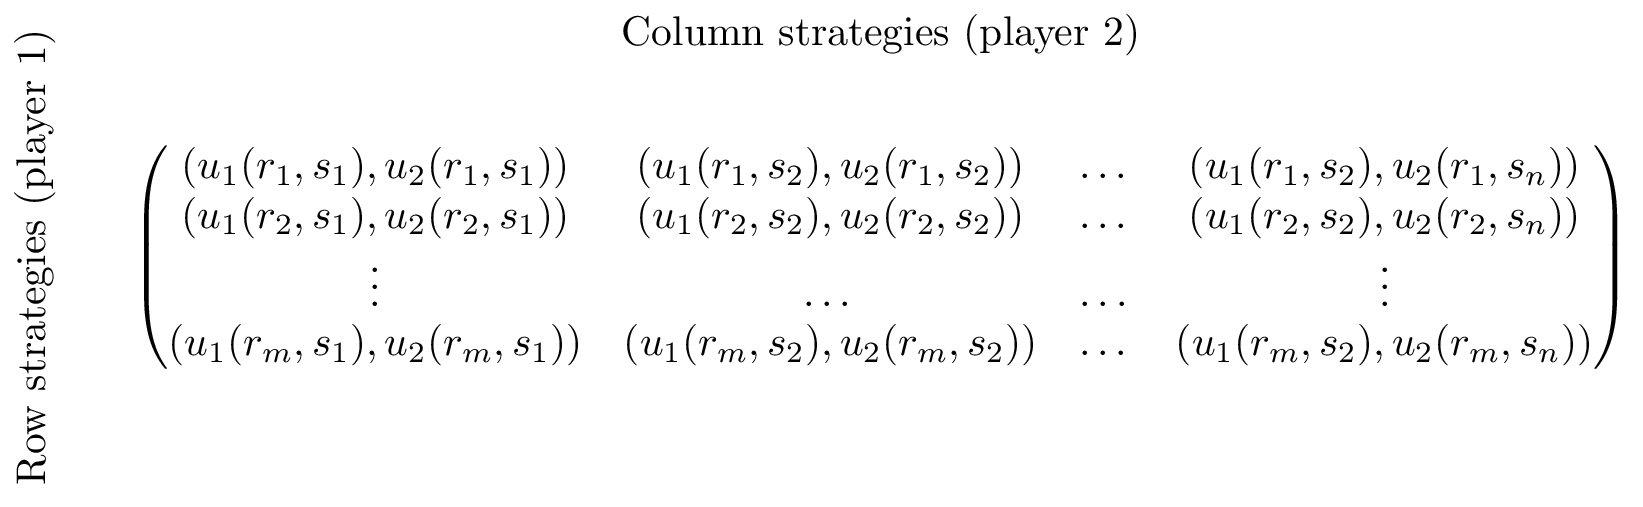
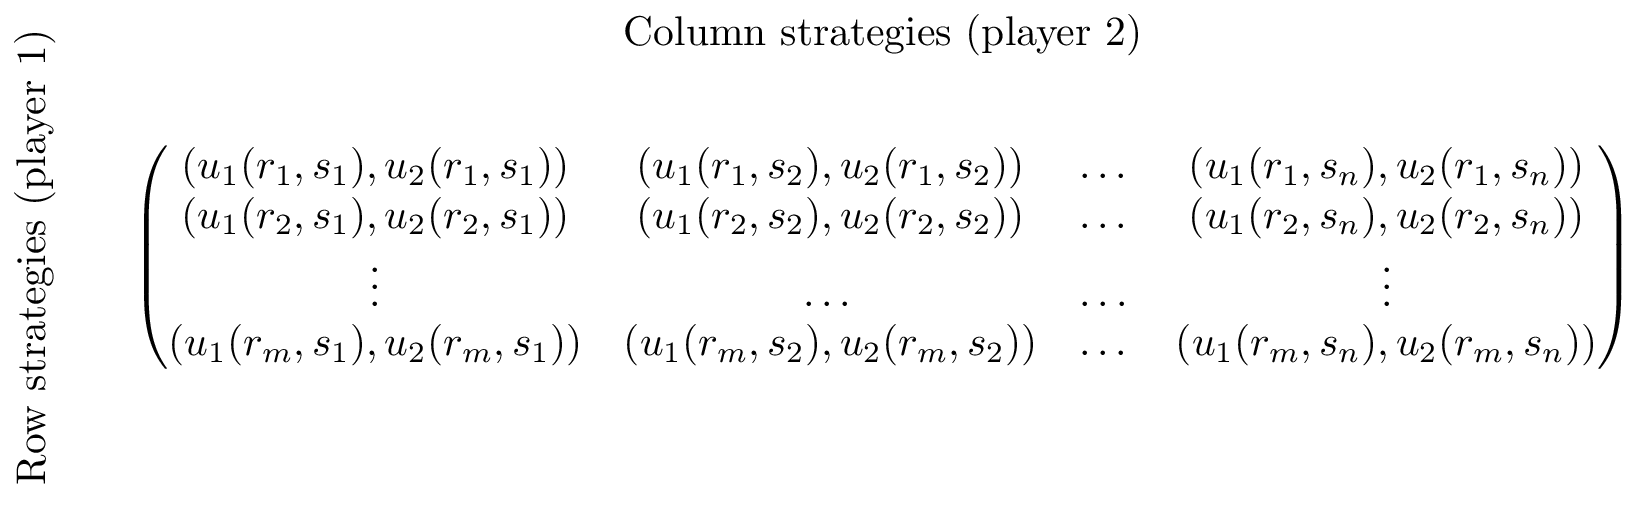
Fixing images

diff --git a/Content/images/L02-img01.tex b/Content/images/L02-img01.tex
@@ -1,13 +1,13 @@
 \documentclass[tikz]{standalone}
 \usepackage{tikz,amsmath}
-\usetikzlibrary{positioning} 
+\usetikzlibrary{positioning}
 \begin{document}
 \begin{tikzpicture}[grow=right, sloped]
     \node (bimatrix) {$\begin{pmatrix}
-(u_1(r_1,s_1),u_2(r_1,s_1))&(u_1(r_1,s_2),u_2(r_1,s_2))&\dots&(u_1(r_1,s_2),u_2(r_1,s_n))\\
-(u_1(r_2,s_1),u_2(r_2,s_1))&(u_1(r_2,s_2),u_2(r_2,s_2))&\dots&(u_1(r_2,s_2),u_2(r_2,s_n))\\
+(u_1(r_1,s_1),u_2(r_1,s_1))&(u_1(r_1,s_2),u_2(r_1,s_2))&\dots&(u_1(r_1,s_n),u_2(r_1,s_n))\\
+(u_1(r_2,s_1),u_2(r_2,s_1))&(u_1(r_2,s_2),u_2(r_2,s_2))&\dots&(u_1(r_2,s_n),u_2(r_2,s_n))\\
 \vdots&\dots&\dots&\vdots\\
-(u_1(r_m,s_1),u_2(r_m,s_1))&(u_1(r_m,s_2),u_2(r_m,s_2))&\dots&(u_1(r_m,s_2),u_2(r_m,s_n))\\
+(u_1(r_m,s_1),u_2(r_m,s_1))&(u_1(r_m,s_2),u_2(r_m,s_2))&\dots&(u_1(r_m,s_n),u_2(r_m,s_n))\\
 \end{pmatrix}$};
     \node [above=.5cm of bimatrix] {Column strategies (player 2)};
     \node [left=1cm of bimatrix, rotate=90, anchor=north, text width= 4cm, text centered] {Row strategies (player 1)};
